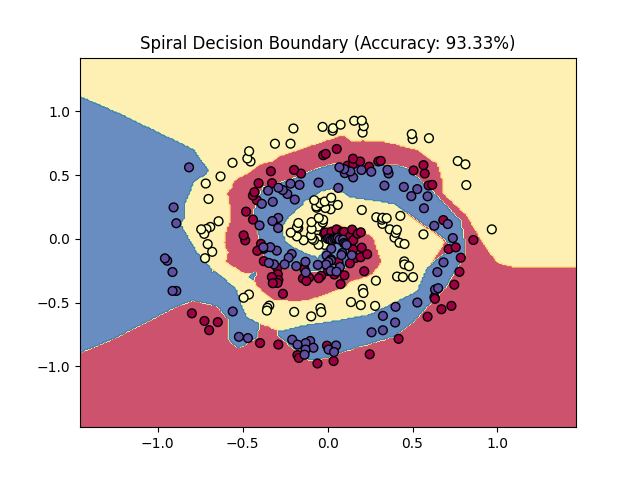
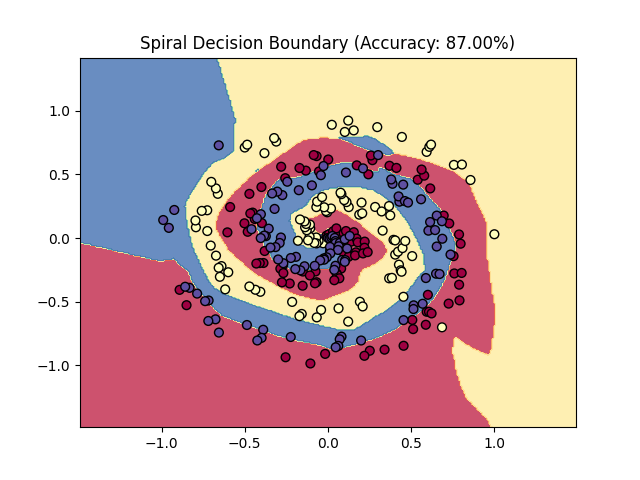
Added Dropout regularization and fixed overfitting

diff --git a/main.py b/main.py
@@ -1,6 +1,6 @@
 import numpy as np
-from src.datasets import create_data_spiral # <--- New Import
-from src.layers import Layer_Dense
+from src.datasets import create_data_spiral 
+from src.layers import Layer_Dense, Layer_Dropout
 from src.activations import Activation_ReLU
 from src.loss import Activation_Softmax_Loss_CategoricalCrossentropy
 from src.optimizers import Optimizer_SGD
@@ -9,14 +9,18 @@ from src.optimizers import Optimizer_SGD
 # 1. Create Data
 X, y = create_data_spiral(samples=100, classes=3)
 
+X_test, y_test = create_data_spiral(samples=100, classes=3)
+
 # 2. Initialize Network - NOW WITH 2 HIDDEN LAYERS
 # Layer 1: Input (2) -> Hidden (64)
 dense1 = Layer_Dense(n_inputs=2, n_neurons=64) 
 activation1 = Activation_ReLU()
+dropout1 = Layer_Dropout(0.2)
 
 # Layer 2: Hidden (64) -> Hidden (64)  <--- NEW INTERMEDIATE LAYER
 dense2 = Layer_Dense(n_inputs=64, n_neurons=64) 
 activation2 = Activation_ReLU()
+dropout2 = Layer_Dropout(0.2)
 
 # Layer 3: Hidden (64) -> Output (3)   <--- OUTPUT LAYER
 dense3 = Layer_Dense(n_inputs=64, n_neurons=3)
@@ -32,13 +36,15 @@ for epoch in range(10001):
     # --- Forward Pass ---
     dense1.forward(X)
     activation1.forward(dense1.output)
+    dropout1.forward(activation1.output)
     
     # Pass through the NEW layer
-    dense2.forward(activation1.output)
+    dense2.forward(dropout1.output)
     activation2.forward(dense2.output)
+    dropout2.forward(activation2.output)
     
     # Output layer
-    dense3.forward(activation2.output)
+    dense3.forward(dropout2.output)
     
     loss = loss_activation.forward(dense3.output, y)
     
@@ -49,15 +55,34 @@ for epoch in range(10001):
     accuracy = np.mean(predictions == y)
 
     if epoch % 1000 == 0:
-        print(f'Epoch: {epoch}, Loss: {loss:.4f}, Accuracy: {accuracy:.4f}')
+        print(f'epoch: {epoch} Loss: {loss:.4f}, Accuracy: {accuracy:.4f}' )
 
-    # --- Backward Pass ---
+        #validation on the test results
+        # --- Validation Forward Pass ---
+        dense1.forward(X_test)
+        activation1.forward(dense1.output)
+        dense2.forward(activation1.output)
+        activation2.forward(dense2.output)
+        dense3.forward(activation2.output)
+        loss_test = loss_activation.forward(dense3.output, y_test)
+        predictions_test = np.argmax(loss_activation.output, axis=1)
+        if len(y_test.shape) == 2:
+            y_test = np.argmax(y_test, axis=1)
+        else:
+                y_test_inds = y_test
+        accuracy_test = np.mean(predictions_test == y_test)
+        print(f'--- Validation --- Loss: {loss_test:.4f}, Accuracy: {accuracy_test:.4f}' )
+   # --- Backward Pass ---
     loss_activation.backward(loss_activation.output, y)
-    dense3.backward(loss_activation.dinputs)      # Back from Output
-    activation2.backward(dense3.dinputs)          # Back through ReLU
-    dense2.backward(activation2.dinputs)          # Back through Hidden 2 (NEW)
-    activation1.backward(dense2.dinputs)          # Back through ReLU
-    dense1.backward(activation1.dinputs)          # Back through Hidden 1
+    dense3.backward(loss_activation.dinputs)
+    
+    dropout2.backward(dense3.dinputs)       # <--- Back through Dropout
+    activation2.backward(dropout2.dinputs)  # <--- Input from Dropout gradient
+    dense2.backward(activation2.dinputs)
+    
+    dropout1.backward(dense2.dinputs)       # <--- Back through Dropout
+    activation1.backward(dropout1.dinputs)  # <--- Input from Dropout gradient
+    dense1.backward(activation1.dinputs)
 
     # --- Optimization ---
     optimizer.update_params(dense1)

diff --git a/src/layers.py b/src/layers.py
@@ -20,3 +20,23 @@ class Layer_Dense:
         #2.gradient on values(to pass to the previous layer)
         #Transpose weights to align shapes:(Gradients dot Weights^T)
         self.dinputs=np.dot(dvalues,self.weights.T)
+
+    
+
+class Layer_Dropout:
+    def __init__(self, rate):
+        # Rate is how many neurons we turn off (e.g., 0.1 = 10%)
+        # We store 1 - rate (e.g., 0.9) because we multiply by what we KEEP
+        self.rate = 1 - rate
+
+    def forward(self, inputs):
+        self.inputs = inputs
+        # Generate a "Mask" of 1s and 0s
+        # If rate is 0.1, approx 10% of this mask will be 0
+        self.binary_mask = np.random.binomial(1, self.rate, size=inputs.shape) / self.rate
+        # Apply mask to inputs
+        self.output = inputs * self.binary_mask
+
+    def backward(self, dvalues):
+        # Gradient is passed through the mask
+        self.dinputs = dvalues * self.binary_mask
